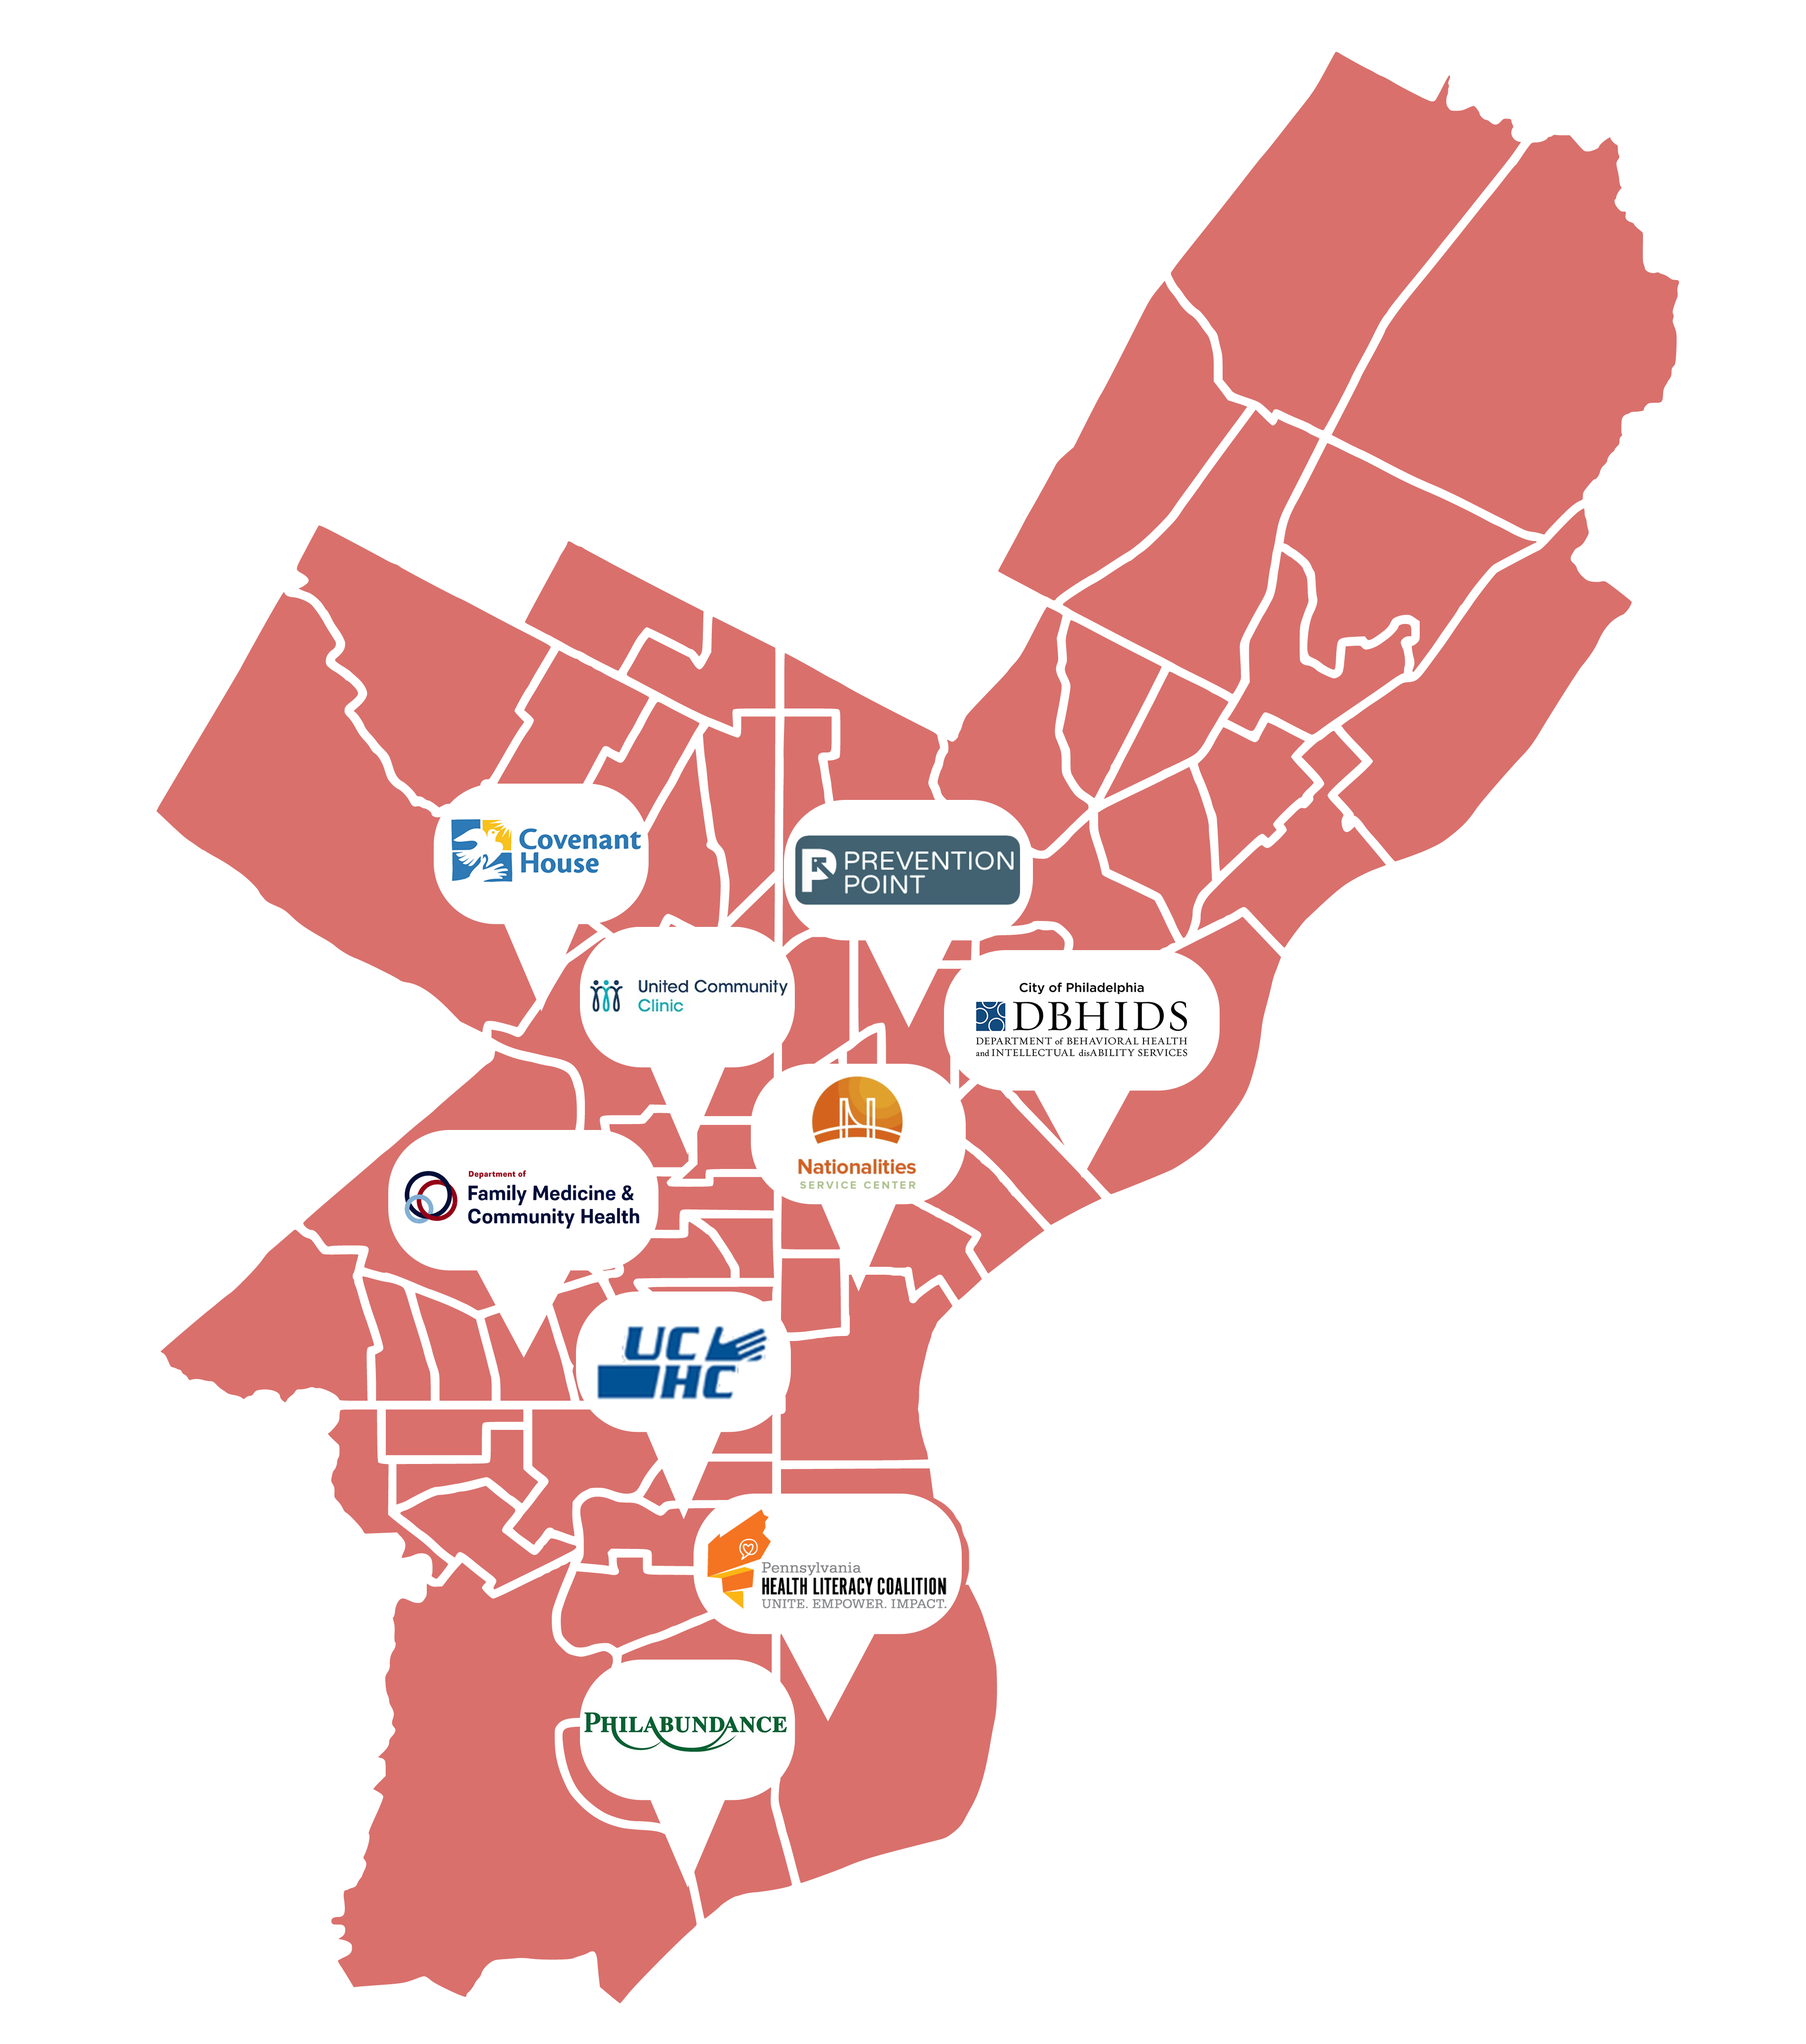
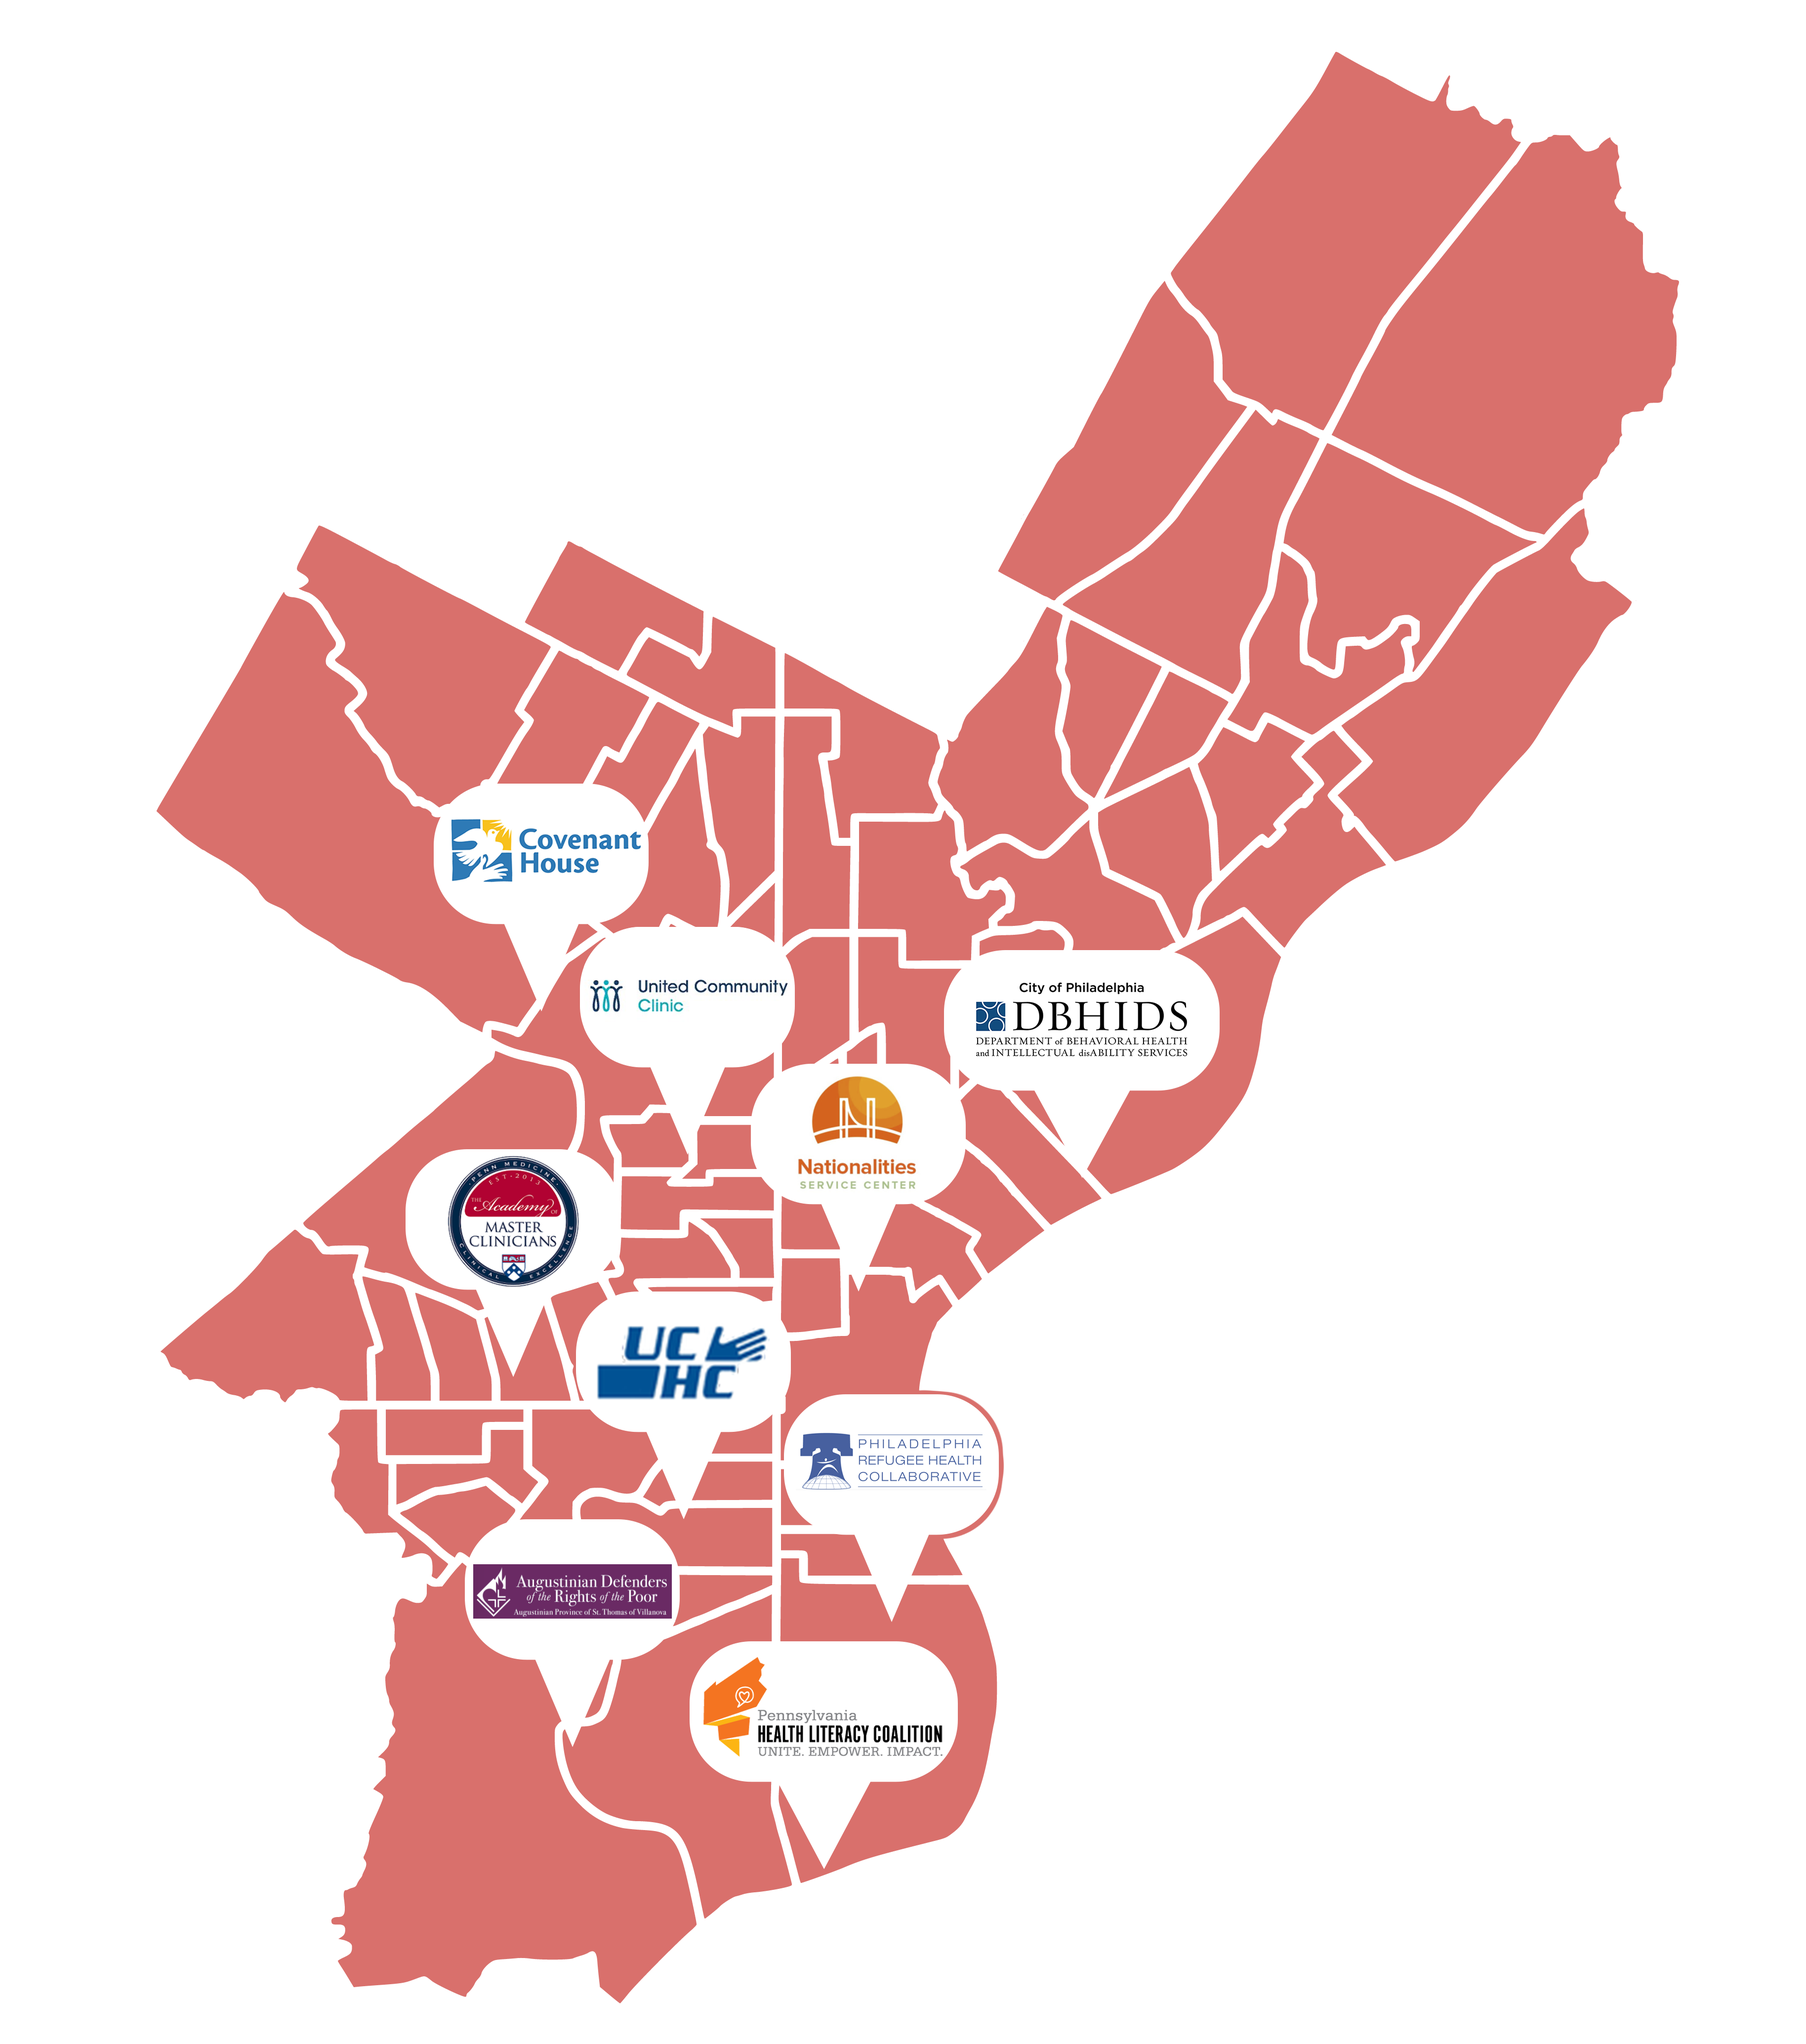
feb 19

Changed region(s): [[0.2495, 0.6548, 0.5613, 0.9355], [0.2183, 0.5301, 0.3742, 0.686], [0.4365, 0.3742, 0.5925, 0.4989]]

diff --git a/index.html b/index.html
@@ -322,16 +322,17 @@
 					<img alt="Map of Philadelphia and Partners" style="width: 40rem; max-width: 90%" id="partner-img" usemap="#partnermap" src="images/philly.png" />
 				
 
-				<map name="partnermap" id="partner-map" >
-    <area target="_blank" alt="Convenant House" title="Convenant House" href="https://www.covenanthouse.org/" shape="poly" coords="1093,2051,1168,1867,1206,1867,1261,1851,1297,1809,1316,1750,1313,1679,1297,1637,1261,1602,1213,1582,980,1586,929,1602,893,1634,877,1686,880,1763,896,1818,961,1867,1019,1867" >
-    <area target="_blank" alt="Prevention Point" title="Prevention Point" href="https://ppponline.org/" coords="1839,2083,1923,1902,1981,1905,2036,1886,2078,1838,2091,1789,2088,1712,2065,1660,2030,1631,1978,1618,1691,1618,1636,1644,1607,1683,1591,1725,1587,1809,1610,1854,1652,1892,1700,1899,1749,1899" shape="poly">
-    <area target="_blank" alt="DBHIDS" title="DBHIDS" href="https://dbhids.org/" coords="2191,2390,2282,2209,2363,2209,2404,2196,2443,2173,2459,2131,2472,2089,2469,2022,2446,1970,2392,1931,2353,1922,2017,1922,1988,1931,1952,1964,1930,1989,1914,2028,1910,2099,1923,2148,1959,2177,2010,2206,2094,2203" shape="poly">
-    <area target="_blank" alt="United Community Clinic" title="United Community Clinic" href="https://www.unitedcommunityclinic.com/" coords="1397,2341,1471,2164,1539,2148,1591,2106,1613,2031,1604,1951,1562,1899,1513,1880,1284,1876,1232,1896,1197,1928,1177,1973,1174,2054,1197,2115,1245,2148,1313,2167" shape="poly">
-    <area target="_blank" alt="Nationalities Service Center" title="Nationalities Service Center" href="https://nscphila.org/" coords="1736,2609,1810,2438,1865,2435,1904,2412,1927,2383,1956,2354,1959,2280,1946,2222,1917,2183,1875,2154,1839,2148,1633,2154,1591,2164,1555,2190,1526,2219,1520,2267,1523,2354,1562,2409,1607,2429,1665,2438" shape="poly">
-    <area target="_blank" alt="Department of Family Medicine &amp; Community Health" title="Department of Family Medicine &amp; Community Health" href="https://www.cceb.med.upenn.edu/bio/frances-k-barg-phd-med" coords="1058,2742,1158,2567,1219,2571,1281,2545,1319,2509,1332,2458,1332,2383,1316,2338,1290,2306,1245,2286,903,2283,854,2296,819,2328,796,2364,783,2448,793,2500,832,2551,893,2567,967,2574" shape="poly">
-    <area target="_blank" alt="UCHC" title="UCHC" href="https://www.uchcphiladelphia.org/" coords="1384,3074,1458,2900,1494,2890,1539,2877,1581,2842,1604,2806,1604,2739,1600,2700,1574,2658,1532,2626,1500,2616,1281,2616,1232,2629,1203,2648,1180,2680,1168,2710,1168,2735,1168,2784,1177,2829,1213,2877,1264,2894,1306,2897" shape="poly">
-    <area target="_blank" alt="Pennsylvania Health Literacy Coalition" title="Pennsylvania Health Literacy Coalition" href="https://healthliteracypa.org/" coords="1675,3485,1771,3310,1810,3310,1865,3301,1907,3281,1933,3242,1949,3188,1943,3110,1927,3068,1888,3036,1855,3020,1820,3020,1503,3020,1461,3045,1426,3084,1400,3133,1403,3181,1410,3226,1436,3265,1474,3294,1516,3304,1578,3307" shape="poly">
-    <area target="_blank" alt="Philabundance" title="Philabundance" href="https://www.philabundance.org/" coords="1394,3827,1465,3643,1500,3643,1545,3627,1584,3601,1604,3549,1610,3456,1587,3420,1545,3368,1494,3355,1287,3359,1245,3375,1200,3394,1187,3436,1174,3472,1177,3536,1187,3585,1222,3620,1271,3636,1323,3653" shape="poly">
+
+<map name="partnermap" id="partner-map">
+    <area target="_blank" alt="UHC" title="UHC" href="https://www.uchcphiladelphia.org" coords="1179,2628,1586,2883" shape="rect">
+    <area target="_blank" alt="The Academy of Master Clinicians" title="The Academy of Master Clinicians" href="https://www.med.upenn.edu/fapd/academy-of-master-clinicians/" coords="874,2328,1200,2612" shape="rect">
+    <area target="_blank" alt="Unity Clinic" title="Unity Clinic" href="https://www.rightsofthepoor.org/unity-clinic" coords="941,3078,1377,3359" shape="rect">
+    <area target="_blank" alt="Covenant House" title="Covenant House" href="https://www.covenanthouse.org/" coords="874,1586,1313,1851" shape="rect">
+    <area target="_blank" alt="DBHIDS" title="DBHIDS" href="https://dbhids.org/" coords="1940,1925,2460,2200" shape="rect">
+    <area target="_blank" alt="NSC" title="NSC" href="https://nscphila.org/" coords="1558,2157,1931,2423" shape="rect">
+    <area target="_blank" alt="Pennsylvania Health Literacy Coalition" title="Pennsylvania Health Literacy Coalition" href="https://healthliteracypa.org/" coords="1394,3323,1939,3604" shape="rect">
+    <area target="_blank" alt="United Community Clinic" title="United Community Clinic" href="https://www.unitedcommunityclinic.com/" coords="1184,1880,1604,2148" shape="rect">
+    <area target="_blank" alt=" Refugee Clinic at Penn Center for Primary Care" title=" Refugee Clinic at Penn Center for Primary Care" href="https://www.med.upenn.edu/globalhealth/refugee-clinic.html" coords="1597,2819,2023,3097" shape="rect">
 </map>
 					
 				</div>
@@ -567,7 +568,7 @@
 								</h3>
 
 								<p id = "nunito-font-thin">
-									<strong>Chairman of Board: </strong>MBA, Ph.D. Chairman of Industry Advisory Board @ Alta Semper Capital. Co-Founder, CEO @ Pangea University for Health Sciences. Senior Fellow for Health Care Management @ Wharton School. 
+									<strong>Chairman of Board: </strong>MBA, Ph.D., Chairman of Industry Advisory Board @ Alta Semper Capital. Co-Founder, CEO @ Pangea University for Health Sciences. Senior Fellow for Health Care Management @ Wharton School. 
 								</p>
 
 							</article>

diff --git a/team.html b/team.html
@@ -182,7 +182,7 @@
 								</h3>
 
 								<p id = "nunito-font-thin">
-									<strong>Chairman of Board: </strong>MBA, Ph.D. Chairman of Industry Advisory Board @ Alta Semper Capital. Co-Founder, CEO @ Pangea University for Health Sciences. Senior Fellow for Health Care Management @ Wharton School. 
+									<strong>Chairman of Board: </strong>MBA, Ph.D., Chairman of Industry Advisory Board @ Alta Semper Capital. Co-Founder, CEO @ Pangea University for Health Sciences. Senior Fellow for Health Care Management @ Wharton School. 
 								</p>
 
 							</article>
